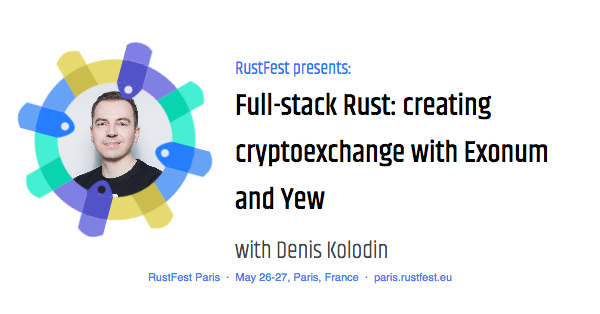
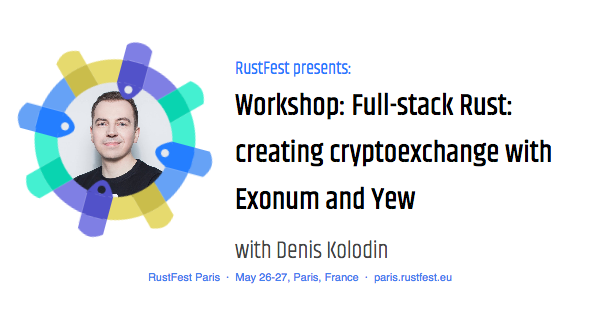
Add workshop prefix to cards

Changed region(s): [[0.39, 0.2866, 0.87, 0.4013], [0.42, 0.4299, 0.93, 0.5446], [0.39, 0.6019, 0.69, 0.6879]]

diff --git a/_layouts/meta-twitter-card-generator.html b/_layouts/meta-twitter-card-generator.html
@@ -257,7 +257,7 @@
         </span>
 
         <span class="speaker">
-          {{ talk.title }}
+          Workshop: {{ talk.title }}
         </span>
 
         <span class="title">
